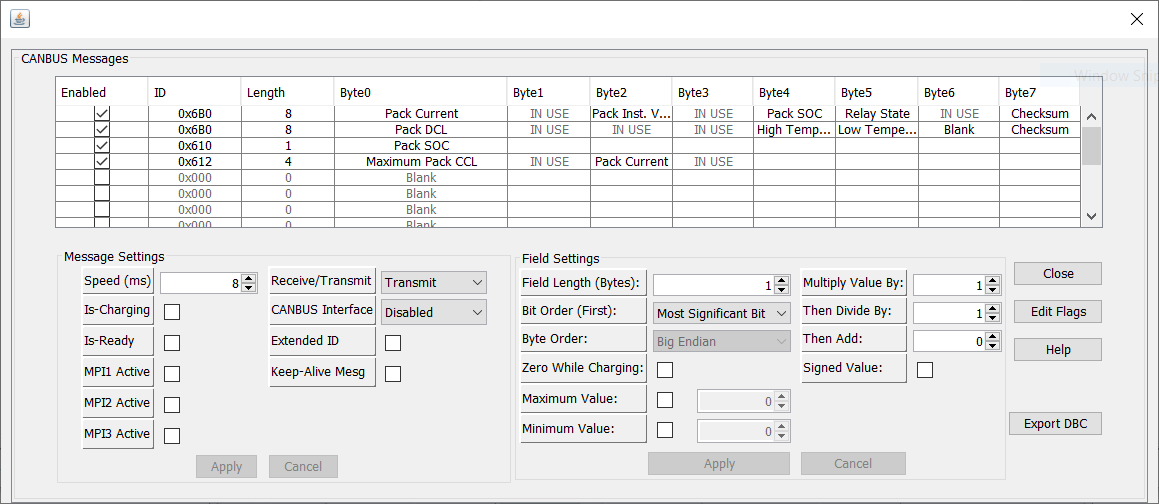
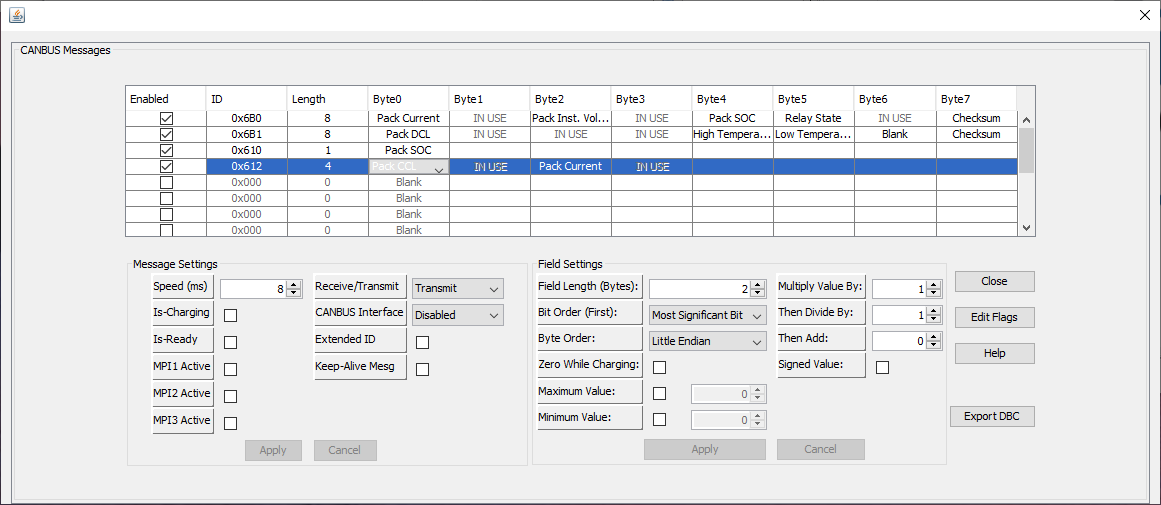
update ORION BMS documentation and fix Pack CCL signal name/endianness

diff --git a/charge-controllers/evcc_orion_bms/orion_bms_integration.md b/charge-controllers/evcc_orion_bms/orion_bms_integration.md
@@ -31,7 +31,7 @@ The messages that you should add are:
 
 
 > [!NOTE]
-> For the signals 'Maximum Pack CCL' and 'Pack Current' you should change the 'field length' to 2 bytes.
+> For the signals 'Pack CCL' and 'Pack Current' you should change 'field length' to 2 bytes and 'Byte Order' to Little Endian.
 
 ## Provide Signals not supported by the BMS
 
